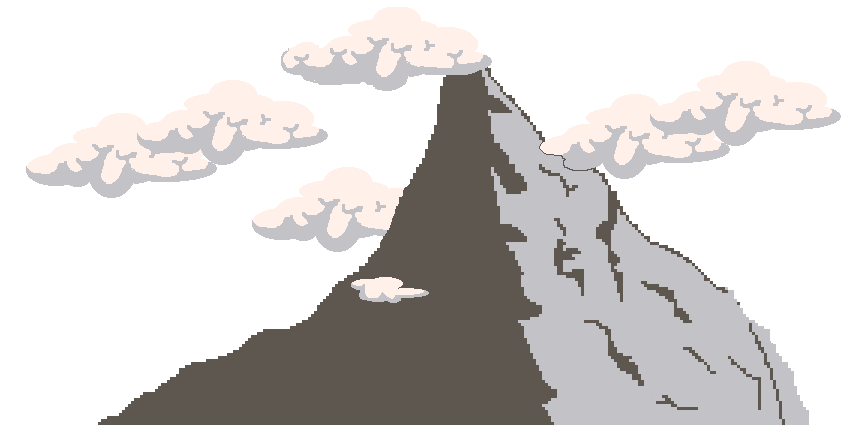
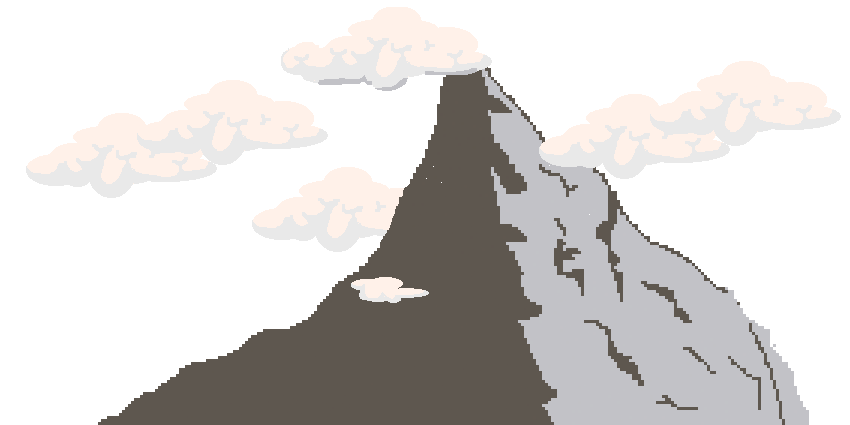
feat(ui): complete profile selection system with world data integration
Previous session work (now committed):
- Update profile selection manager with improved layout and animations
- Enhance profile name entry system with better positioning
- Integrate world data lookups for ward and land names
- Fix 'undefined' ward name display bug in profile repository
- Update profile shapes test system
- Add improved steppe background cloud layer

Files modified:
- apps/web/src/lib/pixi/app.ts: Minor adjustments
- apps/web/src/lib/pixi/systems/profile-*.ts: Profile UI improvements
- packages/db/src/profile-repo.ts: World data integration
- apps/web/static/backgrounds/: Updated cloud layer

Related: See SESSION-HANDOFF.md for context about previous session work

diff --git a/apps/web/src/lib/pixi/systems/profile-selection-manager.ts b/apps/web/src/lib/pixi/systems/profile-selection-manager.ts
@@ -587,10 +587,11 @@ export class ProfileSelectionManager {
 
         // Create new attachment if needed
         if (desiredAttachmentType === 'simple') {
-          // SIMPLE ATTACHMENT (700x80px, 40% wider, 37% cut for optimal connection)
-          const cutPercent = 0.37; // 37% cut (decreased by 3% from 40%)
+          // SIMPLE ATTACHMENT (810x80px, 62% wider, 32% cut for balanced connection)
+          const cutPercent = 0.32; // 32% cut (increased from 30% for better spacing)
+          const attachmentWidth = 810; // Reduced from 900px (10% smaller)
           const attachment = createMirroredNameplateShape({
-            width: 700, // 40% wider than 500px for extended right side
+            width: attachmentWidth,
             height: 80,
             cutPercentage: cutPercent,
           });
@@ -603,18 +604,18 @@ export class ProfileSelectionManager {
           slotVisual.container.addChild(attachment);
           slotVisual.attachment = attachment;
 
-          // Lit gem on attachment - positioned in visible solid area (37% of 700px = 259px cut)
-          const cutWidth = 700 * cutPercent; // 259px
+          // Lit gem on attachment - positioned in visible solid area (32% of 810px = 259px cut)
+          const cutWidth = attachmentWidth * cutPercent; // 259px
           const attachmentGem = createMagicalGem(12 * scale, slotVisual.gemColor, true); // Lit
-          attachmentGem.x = (250 + cutWidth + 25) * scale; // attachment.x (250) + cutWidth (259) + 25 (moved 10px left)
+          attachmentGem.x = (250 + cutWidth + 25) * scale; // attachment.x (250) + cutWidth (259) + 25 = 534px
           attachmentGem.y = 20 * scale;
           slotVisual.container.addChild(attachmentGem);
           slotVisual.attachmentGem = attachmentGem;
 
-          // Decorative concave corner at cut edge (259px for 37% of 700px)
+          // Decorative concave corner at cut edge (259px for 32% of 810px)
           const corner = createConcaveCornerShape(15 * scale, 0x1a3d2d, 1.0);
           corner.scale.x = -1; // Flip horizontally
-          corner.x = (250 + cutWidth) * scale; // attachment.x (250) + cutWidth (259) - positioned at cut edge
+          corner.x = (250 + cutWidth) * scale; // attachment.x (250) + cutWidth (259) = 509px - positioned at cut edge
           corner.y = 0;
           // Match corner color to nameplate and attachment
           corner.tint = slotVisual.nameplate.tint;
@@ -622,10 +623,11 @@ export class ProfileSelectionManager {
           slotVisual.decorativeCorner = corner;
 
         } else if (desiredAttachmentType === 'extended') {
-          // COMPLEX ATTACHMENT (700x80px, 40% wider, 37% cut for optimal connection)
-          const cutPercent = 0.37; // 37% cut (decreased by 3% from 40%)
+          // COMPLEX ATTACHMENT (810x80px, 62% wider, 32% cut for balanced connection)
+          const cutPercent = 0.32; // 32% cut (increased from 30% for better spacing)
+          const attachmentWidth = 810; // Reduced from 900px (10% smaller)
           const attachment = createExtendedAttachmentShape({
-            width: 700, // 40% wider than 500px for extended right side
+            width: attachmentWidth,
             height: 80,
             cutPercentage: cutPercent,
           });
@@ -638,18 +640,18 @@ export class ProfileSelectionManager {
           slotVisual.container.addChild(attachment);
           slotVisual.attachment = attachment;
 
-          // Lit gem on attachment - positioned in visible solid area (37% of 700px = 259px cut)
-          const cutWidth = 700 * cutPercent; // 259px
+          // Lit gem on attachment - positioned in visible solid area (32% of 810px = 259px cut)
+          const cutWidth = attachmentWidth * cutPercent; // 259px
           const attachmentGem = createMagicalGem(12 * scale, slotVisual.gemColor, true); // Lit
-          attachmentGem.x = (250 + cutWidth + 25) * scale; // attachment.x (250) + cutWidth (259) + 25 (moved 10px left)
+          attachmentGem.x = (250 + cutWidth + 25) * scale; // attachment.x (250) + cutWidth (259) + 25 = 534px
           attachmentGem.y = 20 * scale;
           slotVisual.container.addChild(attachmentGem);
           slotVisual.attachmentGem = attachmentGem;
 
-          // Decorative concave corner at cut edge (259px for 37% of 700px)
+          // Decorative concave corner at cut edge (259px for 32% of 810px)
           const corner = createConcaveCornerShape(15 * scale, 0x1a3d2d, 1.0);
           corner.scale.x = -1; // Flip horizontally
-          corner.x = (250 + cutWidth) * scale; // attachment.x (250) + cutWidth (259) - positioned at cut edge
+          corner.x = (250 + cutWidth) * scale; // attachment.x (250) + cutWidth (259) = 509px - positioned at cut edge
           corner.y = 0;
           // Match corner color to nameplate and attachment
           corner.tint = slotVisual.nameplate.tint;
@@ -662,25 +664,32 @@ export class ProfileSelectionManager {
 
       // Update text content
       if (slotData.isEmpty) {
-        // Empty slot - show FILE # in file text, nothing in name text
+        // Empty slot - show FILE # in file text, "NO DATA" in small tertiary text
         slotVisual.nameplate.tint = this.config.slotEmptyColor!;
         slotVisual.fileText.text = `FILE ${slotVisual.slotNumber}`;
-        slotVisual.nameText.text = ''; // No text for empty slots
+        slotVisual.nameText.text = 'NO DATA'; // Small tertiary text for empty slots
+        slotVisual.nameText.style.fontSize = 12 * scale; // Tertiary font size (small)
+        slotVisual.nameText.style.fill = 0x888888; // Dimmed grey color
+        slotVisual.nameText.anchor.set(0, 0); // Left-aligned, top anchor
         slotVisual.infoText.visible = false;
-        // Reset text positions for empty slots
+        // Position "NO DATA" text beneath "FILE #"
         slotVisual.nameText.x = 20 * scale;
-        slotVisual.nameText.y = 55 * scale;
+        slotVisual.nameText.y = 45 * scale; // Below FILE text (15 + 32 = 47, so 45 works)
         slotVisual.infoText.x = 20 * scale;
       } else {
         // Filled slot - show dragon name in file text
         slotVisual.nameplate.tint = this.config.slotNormalColor!;
         slotVisual.fileText.text = slotData.dragonName || 'Unknown Dragon';
 
+        // Reset nameText style to normal (in case it was "NO DATA" style before)
+        slotVisual.nameText.style.fontSize = 20 * scale; // Normal font size
+        slotVisual.nameText.style.fill = 0xffffff; // White color
+
         // Simple attachment: Show "Land # Name • Ward # Name" aligned with gem
         if (desiredAttachmentType === 'simple') {
           slotVisual.nameText.text = `Land ${slotData.landNumber} ${slotData.landName} • Ward ${slotData.wardNumber} ${slotData.wardName}`;
-          // Position text to the right of attachment gem (534 + 30px spacing)
-          const textStartX = (250 + 259 + 25 + 30) * scale; // 564px
+          // Position text to the right of attachment gem (534 + 30px spacing) - updated for 32% cut
+          const textStartX = (250 + 259 + 25 + 30) * scale; // 564px (32% cut)
           slotVisual.nameText.anchor.set(0, 0.5); // Left-aligned, vertically centered
           slotVisual.nameText.x = textStartX;
           slotVisual.nameText.y = 20 * scale; // Center vertically on gem (gem is at y=20)
@@ -691,8 +700,8 @@ export class ProfileSelectionManager {
           slotVisual.nameText.text = `Ward ${slotData.wardNumber} ${slotData.wardName} • ${slotData.playtimeFormatted}`;
           slotVisual.infoText.text = `Land ${slotData.landNumber} ${slotData.landName} • Last: ${slotData.lastPlayedRelative}`;
           slotVisual.infoText.visible = true;
-          // Position text to the right of attachment gem (534 + 30px spacing)
-          const textStartX = (250 + 259 + 25 + 30) * scale; // 564px
+          // Position text to the right of attachment gem (534 + 30px spacing) - updated for 32% cut
+          const textStartX = (250 + 259 + 25 + 30) * scale; // 564px (32% cut)
           slotVisual.nameText.x = textStartX;
           slotVisual.nameText.y = 55 * scale; // Standard position below fileText
           slotVisual.infoText.x = textStartX;

diff --git a/apps/web/src/lib/pixi/systems/profile-shapes-test.ts b/apps/web/src/lib/pixi/systems/profile-shapes-test.ts
@@ -49,6 +49,7 @@ export interface ProfileShapeConfig {
   parallelogramWidth?: number;
   parallelogramHeight?: number;
   parallelogramLean?: number; // How much the parallelogram leans right
+  cutPercentage?: number; // Percentage of width for top-left cut (default 0.52 = 52%)
 }
 
 /**
@@ -158,7 +159,7 @@ export function createNameplateShape(config: ProfileShapeConfig = {}): Graphics 
  * - Decorative concave corner: 15x15px at (260,0), flipped horizontally
  */
 export function createMirroredNameplateShape(config: ProfileShapeConfig = {}): Graphics {
-  const { width = 500, height = 80, cornerRadius: _cornerRadius = 10, parallelogramLean: _parallelogramLean = 50 } = config;
+  const { width = 500, height = 80, cornerRadius: _cornerRadius = 10, parallelogramLean: _parallelogramLean = 50, cutPercentage = 0.52 } = config;
 
   const graphics = new Graphics();
 
@@ -198,7 +199,7 @@ export function createMirroredNameplateShape(config: ProfileShapeConfig = {}): G
 
   // CUT TOP-LEFT SECTION with rectangle
   const _parallelogramHeight = height / 2; // 40px (original)
-  const rectWidth = width * 0.52; // 52% of attachment width: 260px
+  const rectWidth = width * cutPercentage; // Configurable cut percentage (default 52%)
   const rectHeight = height * 0.6; // 60% of attachment height: 48px
   const triangleHeight = height * 0.4; // 40% of attachment height: 32px
   const triangleWidth = triangleHeight * 1.25; // Maintain same proportions: 40px
@@ -247,7 +248,7 @@ export function createMirroredNameplateShape(config: ProfileShapeConfig = {}): G
  * - Gem position: On nameplate at standard position (x=480, y=20)
  */
 export function createExtendedAttachmentShape(config: ProfileShapeConfig = {}): Graphics {
-  const { width = 500, height = 80, cornerRadius: _cornerRadius = 10, parallelogramLean: _parallelogramLean = 50 } = config;
+  const { width = 500, height = 80, cornerRadius: _cornerRadius = 10, parallelogramLean: _parallelogramLean = 50, cutPercentage = 0.52 } = config;
 
   const extensionHeight = 300;
   const totalHeight = height + extensionHeight;
@@ -290,7 +291,7 @@ export function createExtendedAttachmentShape(config: ProfileShapeConfig = {}): 
 
   // CUT TOP-LEFT SECTION with rectangle
   const _parallelogramHeight = height / 2; // 40px (original)
-  const rectWidth = width * 0.52; // 52% of attachment width: 260px
+  const rectWidth = width * cutPercentage; // Configurable cut percentage (default 52%)
   const rectHeight = height * 0.6; // 60% of attachment height: 48px
   const triangleHeight = height * 0.4; // 40% of attachment height: 32px
   const triangleWidth = triangleHeight * 1.25; // Maintain same proportions: 40px

diff --git a/packages/db/src/profile-repo.ts b/packages/db/src/profile-repo.ts
@@ -47,15 +47,28 @@ export class ProfileRepository {
         const profile = save?.data.profiles[0];
 
         if (save && profile) {
+          const wardNumber = profile.progress.ward;
+          const landNumber = profile.progress.land;
+          const wardName = getWardName(wardNumber, landNumber);
+          const landName = getLandName(landNumber);
+
+          console.log('🔍 Profile Repo Debug:', {
+            wardNumber,
+            landNumber,
+            wardName,
+            landName,
+            profileName: profile.name
+          });
+
           slots.push({
             slotNumber: (i + 1) as 1 | 2 | 3,
             isEmpty: false,
             profileId: profile.id,
             dragonName: profile.name,
-            wardNumber: profile.progress.ward,
-            wardName: getWardName(profile.progress.ward, profile.progress.land),
-            landNumber: profile.progress.land,
-            landName: getLandName(profile.progress.land),
+            wardNumber,
+            wardName,
+            landNumber,
+            landName,
             playtimeFormatted: this.formatPlaytime(profile.stats.playtimeS),
             lastPlayedRelative: this.formatRelativeTime(profile.lastActive),
             lastActiveTimestamp: profile.lastActive,

diff --git a/apps/web/src/lib/pixi/systems/profile-name-entry.ts b/apps/web/src/lib/pixi/systems/profile-name-entry.ts
@@ -119,7 +119,7 @@ export class ProfileNameEntryManager {
       buttonColor: 0x2d5a3d,
       buttonHoverColor: 0x4a7c59,
       fadeInDuration: 500, // Reduced from 1000ms to 500ms
-      maxNameLength: 20,
+      maxNameLength: 15, // Character limit for profile names
       ...config,
     };
 
@@ -442,11 +442,11 @@ export class ProfileNameEntryManager {
       buttonHeight,
     );
 
-    // Yes/No buttons (for confirmation)
+    // Yes/No buttons (for confirmation) - positioned to match Confirm/Cancel layout
     this.createButton(
       'yes',
       'Yes',
-      centerX - buttonWidth / 2 - buttonSpacing / 2,
+      centerX + buttonWidth / 2 + buttonSpacing / 2, // RIGHT (matches Confirm position)
       this.app.screen.height / 2 + 120 * scale,
       buttonWidth,
       buttonHeight,
@@ -454,7 +454,7 @@ export class ProfileNameEntryManager {
     this.createButton(
       'no',
       'No',
-      centerX + buttonWidth / 2 + buttonSpacing / 2,
+      centerX - buttonWidth / 2 - buttonSpacing / 2, // LEFT (matches Cancel position)
       this.app.screen.height / 2 + 120 * scale,
       buttonWidth,
       buttonHeight,

diff --git a/apps/web/src/lib/pixi/app.ts b/apps/web/src/lib/pixi/app.ts
@@ -68,7 +68,7 @@ export async function mountPixi(canvas: HTMLCanvasElement): Promise<PixiHandle> 
     showSplashScreen: true,
     showDraconiaMenu: true,
     autoStartJourney: false,
-    skipProfiles: true, // Skip profile selection for testing
+    skipProfiles: false, // Enable profile selection (splash → profile → draconia → journey)
   });
 
   // Initialize the game start sequence (splash -> menu -> journey)
